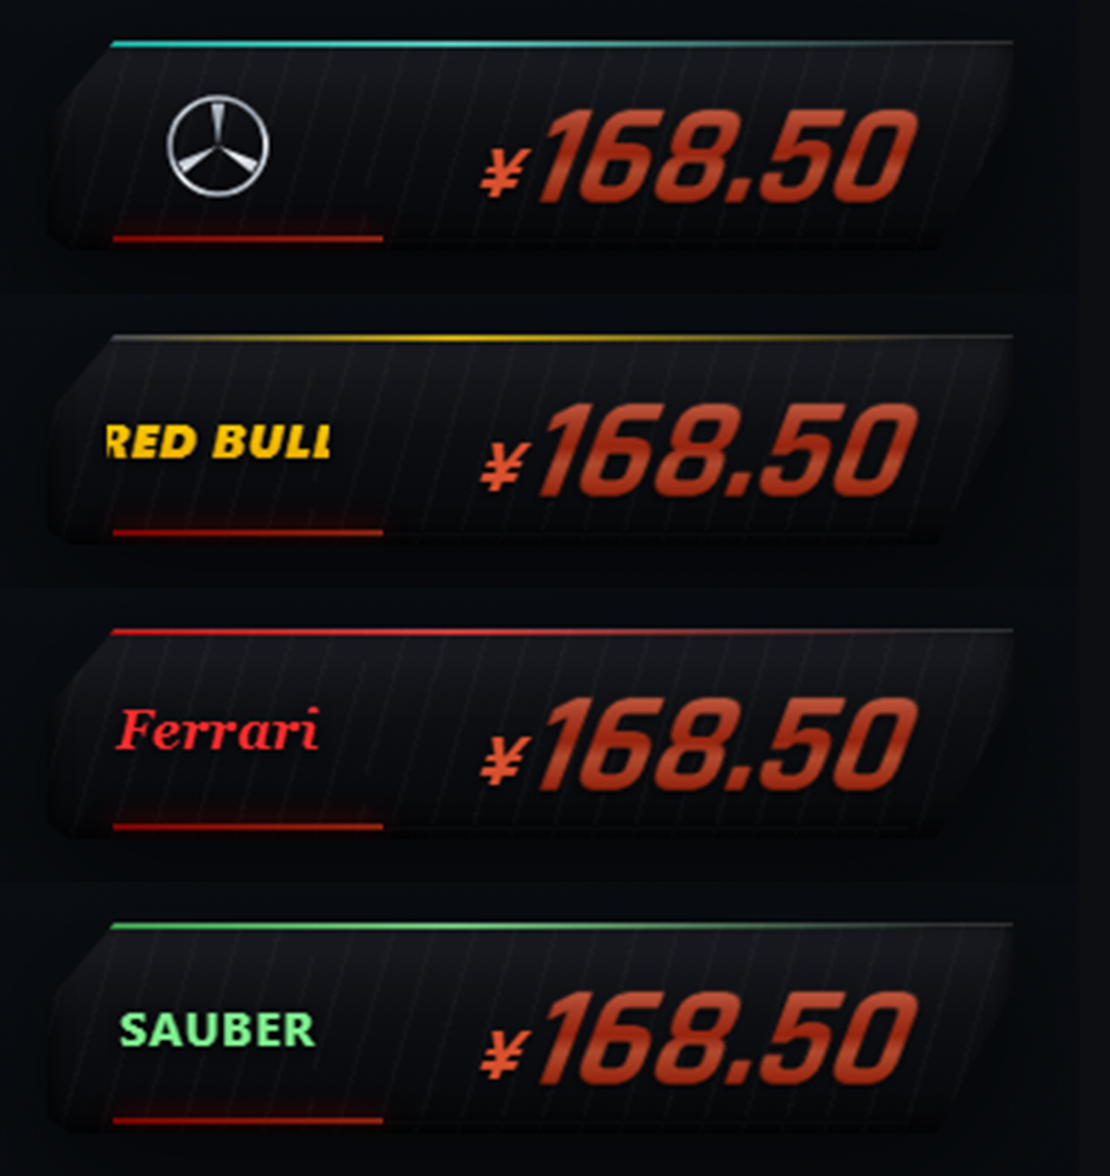
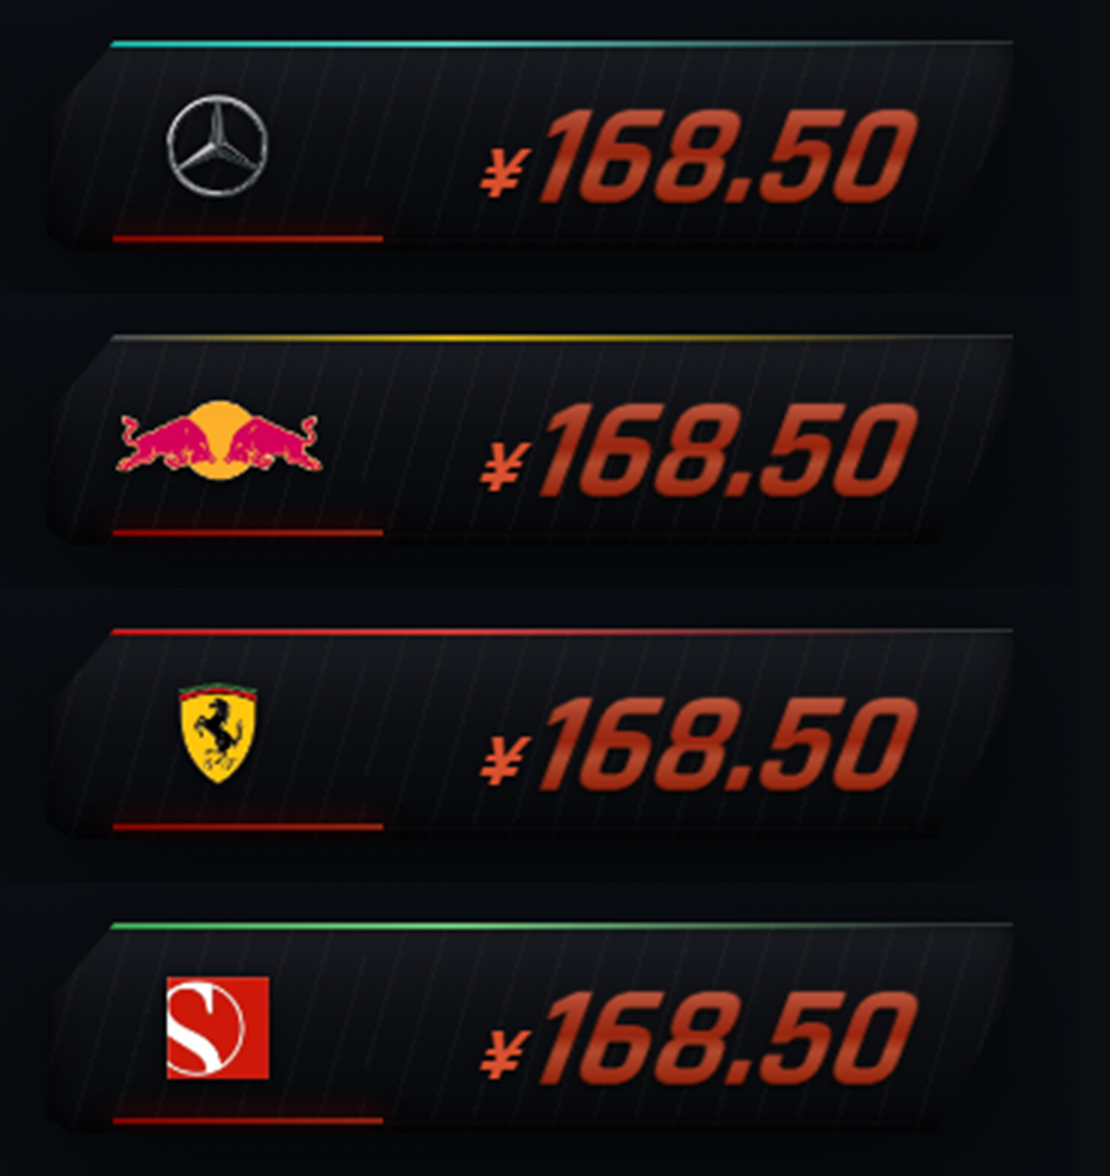
feat(brands): 四个车队换成官方徽标
- Mercedes 三叉星、Ferrari 盾徽、Red Bull 双牛、Sauber 红底 S
- 素材是 JPG，透明格子被烤进像素：_tools/logo-key.mjs 从边界泛洪去棋盘格，
  logo-key2.mjs 处理「框内有洞」的封闭区域（三叉星内部）
- Sauber 用红块包围盒直接裁，保住方块内的白色 S
- 删除此前自绘的 svg 占位标
- LICENSE 更新为「仓库所有者提供的商标素材，仅个人非商业使用」

diff --git a/lib/client.js b/lib/client.js
@@ -1621,22 +1621,15 @@ window.__ModuleLoader__.load({
 		  "accent2": "#ff9d2e"
 		 },
 		 "mercedes": {
[1 lines of base64/hex data omitted]
-		  "metal": true,
-		  "metalGrad": [
-		   "#ffffff 0%",
-		   "#d7dee6 18%",
-		   "#8d97a3 42%",
-		   "#eef3f8 58%",
-		   "#b6c0ca 76%",
-		   "#79838f 100%"
-		  ],
[1 lines of base64/hex data omitted]
+		  "metal": false,
+		  "metalGrad": null,
 		  "text": null,
 		  "accent": "#00d2be",
 		  "accent2": "#5ff0e3"
 		 },
 		 "redbull": {
[2 lines of base64/hex data omitted]
 		  "metal": false,
 		  "metalGrad": null,
 		  "text": null,
@@ -1644,7 +1637,7 @@ window.__ModuleLoader__.load({
 		  "accent2": "#ffd400"
 		 },
 		 "ferrari": {
[2 lines of base64/hex data omitted]
 		  "metal": false,
 		  "metalGrad": null,
 		  "text": null,
@@ -1652,7 +1645,7 @@ window.__ModuleLoader__.load({
 		  "accent2": "#ff3b3b"
 		 },
 		 "sauber": {
[2 lines of base64/hex data omitted]
 		  "metal": false,
 		  "metalGrad": null,
 		  "text": null,
